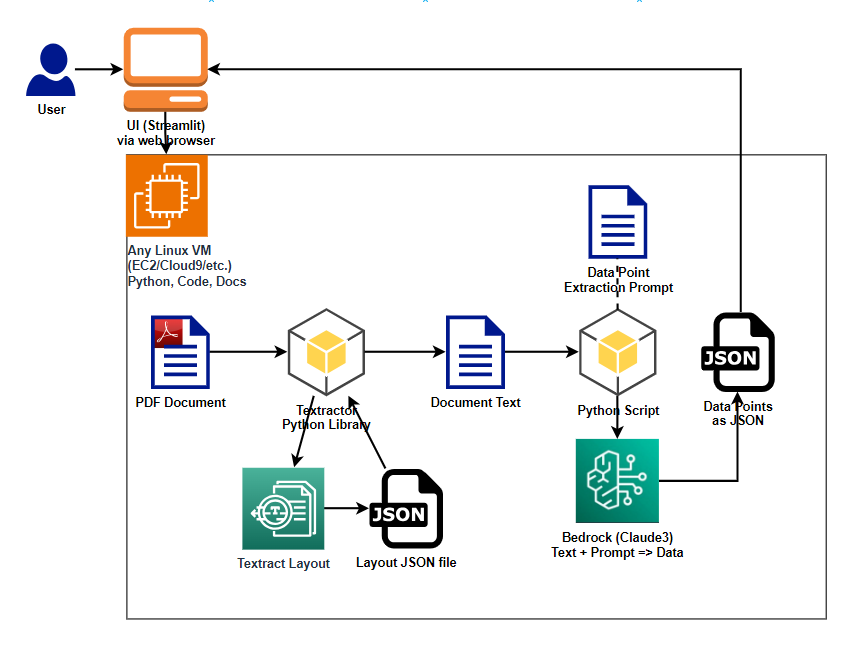
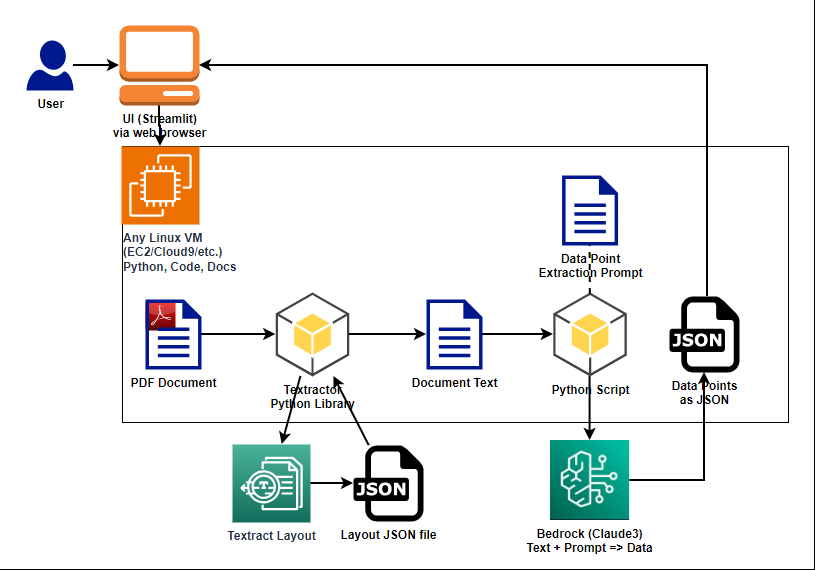
changed arhcitecture diagrams

Changed region(s): [[0.0, 0.0298, 1.0, 1.0]]

diff --git a/intelligent-mutual-fund-prospectus-document-processing/app.py b/intelligent-mutual-fund-prospectus-document-processing/app.py
@@ -226,7 +226,7 @@ def main():
         # Select a language model from the available options
         with st.expander('Architecture Diagram', expanded=True): 
             if st.session_state.ocr_tool == 'Claude 3 Vision':
-                st.image("./assets/claude_3_direct_diagram.png", use_column_width=True)
+                st.image("./assets/claude_3_vision_diagram.png", use_column_width=True)
             else: 
                 st.image("./assets/textract_diagram.png", use_column_width=True)
 
